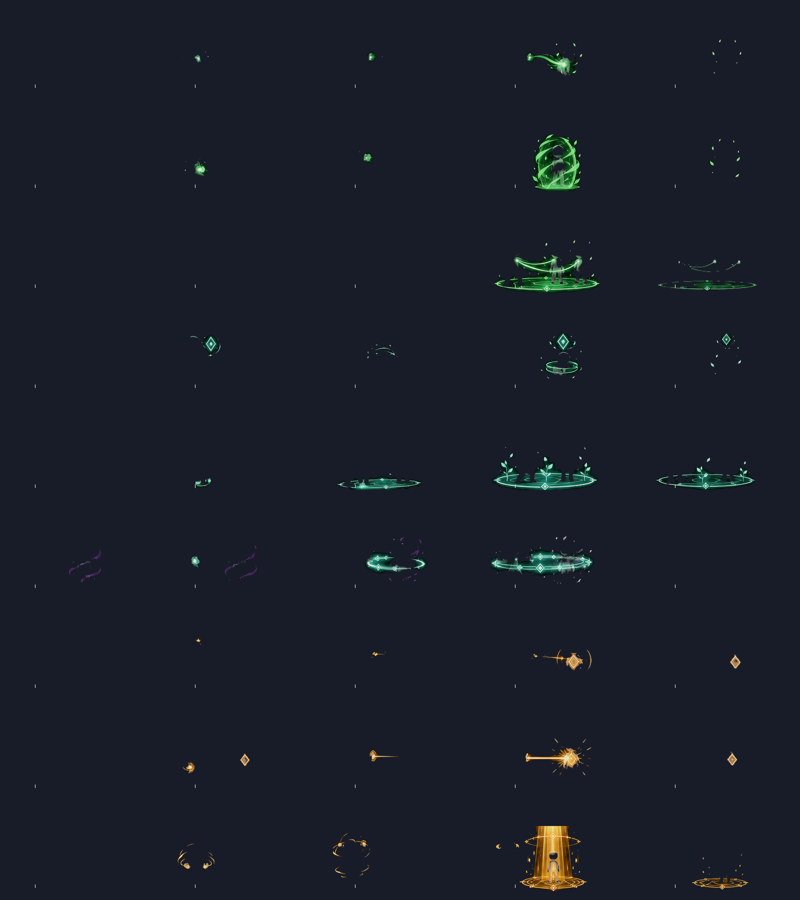
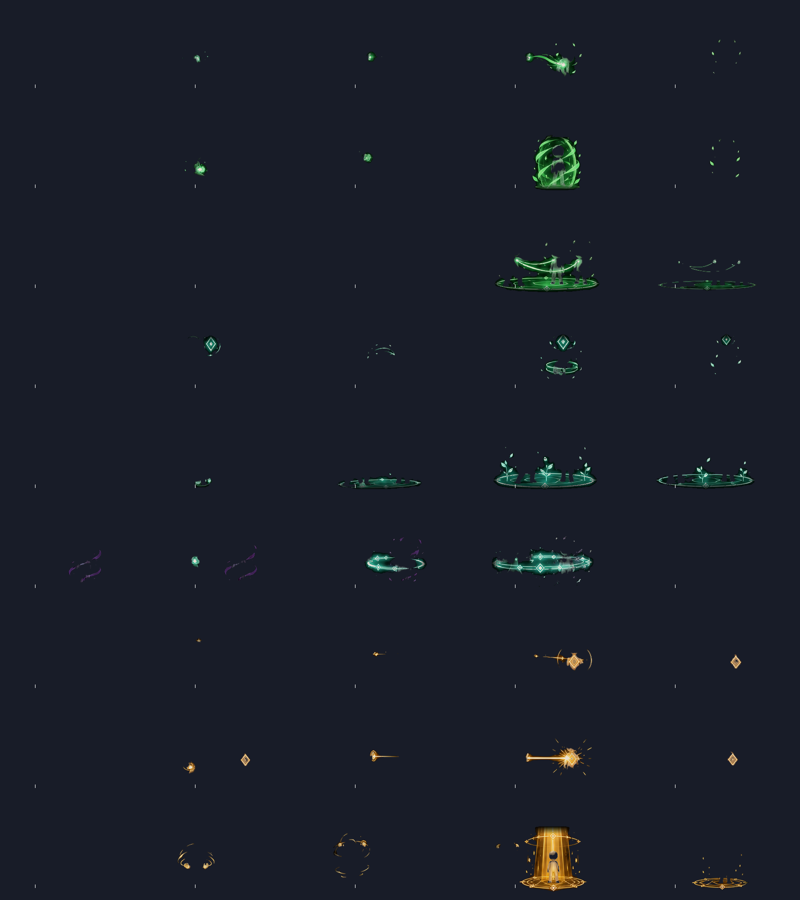
V2-R42: mage and guardian skill effects from owner charts
- Extract MAGE and GUARDIAN charts; all 7 non-sword classes now use chart effects
- Feather cell edges so full-cell glows do not end in hard rectangles
- Tests: smoke 131/131, sim 119/119, online 96/96

Claude-Session: https://claude.ai/code/session_01Fx9SAiv1fdMtU2kmML8rNS

diff --git a/tools/smoke-test.js b/tools/smoke-test.js
@@ -501,10 +501,10 @@ const rec = (name, pass, detail) => { results.push({ name, pass, detail }); cons
     const want = { 'นักดาบ': 'เดิม', 'นักธนู': 'bow', 'นักฆ่า': 'daggers', 'นักสู้': 'fists', 'ผู้สืบวิญญาณ': 'staff', 'ผู้รักษา': 'leafstaff', 'ผู้ใช้มนตรา': 'book', 'ผู้พิทักษ์': 'shield' };
     rec('ท่าใช้สกิลครบทุกอาชีพ: แต่ละอาชีพถืออาวุธของตัวเอง (นักดาบใช้ภาพเดิม)', Object.keys(want).every(k => r[k] === want[k]), JSON.stringify(r)); }
   { const r = await page.evaluate(async () => { for (let i = 0; i < 200 && !Object.keys(HL.SKILL_FX.cls).every(c => HL.skfxReady(c)); i++) await new Promise(r => setTimeout(r, 50));
-      const out = {}; for (const cls of ['นักธนู', 'นักฆ่า', 'นักสู้', 'ผู้สืบวิญญาณ', 'ผู้รักษา', 'ผู้ใช้มนตรา']) { HL.PS.cls = cls; HL.buildSkills(); HL.PS.job = 30; HL.PS.cd = {}; HL.PS.cast = null; HL.PS.dead = false; HL.fxList.length = 0; HL.useSkill(4);
+      const out = {}; for (const cls of ['นักธนู', 'นักฆ่า', 'นักสู้', 'ผู้สืบวิญญาณ', 'ผู้รักษา', 'ผู้ใช้มนตรา', 'ผู้พิทักษ์', 'นักดาบ']) { HL.PS.cls = cls; HL.buildSkills(); HL.PS.job = 30; HL.PS.cd = {}; HL.PS.cast = null; HL.PS.dead = false; HL.fxList.length = 0; HL.useSkill(4);
         out[cls] = HL.fxList.some(f => f.k === 'cchart' && f.row === 1); HL.PS.cast = null }
       HL.PS.cls = 'นักดาบ'; HL.buildSkills(); return out });
-    rec('เอฟเฟกต์สกิลจากตารางท่า (5 อาชีพ) เล่นเมื่อใช้สกิล, อาชีพที่ไม่มีตารางไม่เล่น', r['นักธนู'] && r['นักฆ่า'] && r['นักสู้'] && r['ผู้สืบวิญญาณ'] && r['ผู้รักษา'] && !r['ผู้ใช้มนตรา'], JSON.stringify(r)); }
+    rec('เอฟเฟกต์สกิลจากตารางท่า (7 อาชีพ) เล่นเมื่อใช้สกิล, นักดาบใช้เอฟเฟกต์เดิม', ['นักธนู', 'นักฆ่า', 'นักสู้', 'ผู้สืบวิญญาณ', 'ผู้รักษา', 'ผู้ใช้มนตรา', 'ผู้พิทักษ์'].every(c => r[c]) && !r['นักดาบ'], JSON.stringify(r)); }
   rec('หน้าเกมปกติ (ระบบทดสอบอัตโนมัติ) ข้ามหน้าโหลดได้', await page.evaluate(() => document.getElementById('splash').hidden && SND.splash.shown === false));
   rec('ไม่มี JavaScript error ระหว่างทดสอบ', errors.length === 0, errors.slice(0, 5).join(' | '));
   await browser.close(); srv.close();

diff --git a/game/index.html b/game/index.html
@@ -852,7 +852,7 @@ function chartFx(cls,i){const n=SKILL_FX.cls&&SKILL_FX.cls[cls];if(!n||i<3||i>11
   fx.push({k:'cchart',cls,row:i-3,x:player.x,y:player.y,sx:side==='W'?-1:1,t:1.05,T:1.05,follow:1});return true}
 function drawChart(f){const im=skfxImg(f.cls);if(!im)return;const F=SKILL_FX,p=1-f.t/f.T,fr=1+Math.min(3,Math.floor(p*4)),sc=107*SCALE/F.fig,x=f.follow?player.x:f.x,y=f.follow?player.y:f.y;
   ctx.globalAlpha=Math.min(1,f.t*4);ctx.globalCompositeOperation='lighter';ctx.translate(x,y+2);ctx.scale(f.sx*sc,sc);ctx.drawImage(im,fr*F.cw,f.row*F.ch,F.cw,F.ch,-F.ax,-F.ay,F.cw,F.ch)}
-const SKILL_FX={"cw":320,"ch":200,"ax":70,"ay":172,"fig":92,"cls":{"นักธนู":"archer","นักฆ่า":"assassin","นักสู้":"fighter","ผู้สืบวิญญาณ":"spirit_heir","ผู้รักษา":"healer"}};/*SKILL_FX*/
+const SKILL_FX={"cw":320,"ch":200,"ax":70,"ay":172,"fig":92,"cls":{"นักธนู":"archer","นักฆ่า":"assassin","นักสู้":"fighter","ผู้สืบวิญญาณ":"spirit_heir","ผู้รักษา":"healer","ผู้ใช้มนตรา":"mage","ผู้พิทักษ์":"guardian"}};/*SKILL_FX*/
 const POSEIMG={},POSEC={};
 function poseFor(cls,look){const P=CLASS_POSE[cls];if(!P)return null;const g=look&&look.g==='f'?'f':'m',e=P[g];if(!e)return null;
   if(!POSEIMG[e.id]){const im=new Image();im.src='sprites/pose_'+e.id+'.webp';POSEIMG[e.id]=im}const im=POSEIMG[e.id];if(!(im.complete&&im.naturalWidth))return null;

diff --git a/tools/build_skill_fx.py b/tools/build_skill_fx.py
@@ -17,23 +17,28 @@ GRID = {
  'นักสู้':       ('fighter',     [115, 273, 427, 581, 737, 891, 1048, 1198, 1329, 1506], [57, 240, 418, 608, 831, 1020]),
  'ผู้สืบวิญญาณ': ('spirit_heir', [119, 286, 421, 565, 696, 824, 980, 1110, 1252, 1420], [56, 254, 446, 648, 878, 1084]),
  'ผู้รักษา':     ('healer',      [104, 238, 377, 511, 644, 770, 903, 1014, 1134, 1306], [66, 286, 498, 715, 949, 1180]),
+ 'ผู้ใช้มนตรา':  ('mage',        [129, 246, 363, 492, 605, 718, 831, 943, 1058, 1216], [87, 314, 539, 771, 1002, 1234]),
+ 'ผู้พิทักษ์':   ('guardian',    [115, 255, 396, 549, 692, 831, 970, 1109, 1251, 1419], [70, 252, 436, 613, 910, 1084]),
 }
 
 def fx_layer(cell, bg):
     a = cell.astype(int); lum = a.mean(2); sat = a.max(2) - a.min(2)
     col = sat > 40
     near = np.asarray(Image.fromarray((col * 255).astype(np.uint8)).filter(ImageFilter.MaxFilter(13))) > 0
-    keep = col | ((lum > 205) & near)                       # สีเรือง + แกนขาวติดสี (หุ่นเทาไม่ผ่าน)
+    keep = col | ((lum > 232) & near)                       # สีเรือง + แกนขาวติดสี (หุ่นเทาไม่ผ่าน)
     out = np.clip(a - bg[None, None, :] * 1.05, 0, 255)      # ลบสีพื้น → วาดแบบบวกแสง
     out[~keep] = 0
-    soft = np.clip((sat - 25) / 30, 0, 1); soft[(lum > 205) & near] = 1
+    soft = np.clip((sat - 25) / 30, 0, 1); soft[(lum > 232) & near] = 1
     out = out * np.maximum(soft, keep * .0)[..., None]
+    h, w = out.shape[:2]; e = 18                                 # จางขอบช่อง: แสงที่เต็มช่องไม่เป็นขอบสี่เหลี่ยม
+    fy = np.clip(np.minimum(np.arange(h), h - 1 - np.arange(h)) / e, 0, 1); fx = np.clip(np.minimum(np.arange(w), w - 1 - np.arange(w)) / e, 0, 1)
+    out = out * (fy[:, None] * fx[None, :])[..., None]
     return out.astype(np.uint8)
 
 def caster(cell):
     """หุ่นผู้ใช้สกิลในช่อง READY: กลุ่มพิกเซลเทาทางซ้ายสุด → (กึ่งกลาง x, เท้า y, ความสูง)"""
     a = cell.astype(int); lum = a.mean(2); sat = a.max(2) - a.min(2)
-    g = (sat < 26) & (lum > 55) & (lum < 175)
+    g = (sat < 26) & (lum > 55) & (lum < 215)  # ตาราง MAGE หุ่นสีเทาอ่อนกว่า
     xs = np.where(g.sum(0) > 6)[0]
     if not len(xs): return None
     runs, run = [], [xs[0]]                       # กลุ่มคอลัมน์ติดกัน; เลือกกลุ่มแรกที่กว้างพอเป็นหุ่น (ตัดเส้น/ขอบบาง ๆ)

diff --git a/docs/CHANGELOG.md b/docs/CHANGELOG.md
@@ -1,5 +1,11 @@
 # ประวัติเวอร์ชัน
 
+## V2-R42 — 2026-11-11 (เอฟเฟกต์สกิล ผู้ใช้มนตรา + ผู้พิทักษ์)
+
+- ตาราง MAGE / GUARDIAN จากเจ้าของ (ตามชุดคำสั่ง `docs/prompts/skill_charts_mage_guardian.md`) → `game/sprites/skfx_mage.webp`, `skfx_guardian.webp`
+- ครบ 7 อาชีพ (นักดาบใช้เอฟเฟกต์เดิม); จางขอบช่องทุกเฟรม (แสงเต็มช่องไม่เป็นสี่เหลี่ยม); หุ่นสีเทาอ่อนของตาราง MAGE ตรวจจับได้
+- ทดสอบ: smoke 131/131, sim 119/119, online 96/96 · ภาพ `evidence/r42_mage_guardian_fx.png`
+
 ## V2-R41 — 2026-11-11 (เอฟเฟกต์สกิลจากตารางท่าของเจ้าของ)
 
 - สำรองไฟล์ก่อนแก้: `game/versions/r40-before-chart-fx.html`; ตารางต้นฉบับ `assets/design_refs/skills/v2/`
